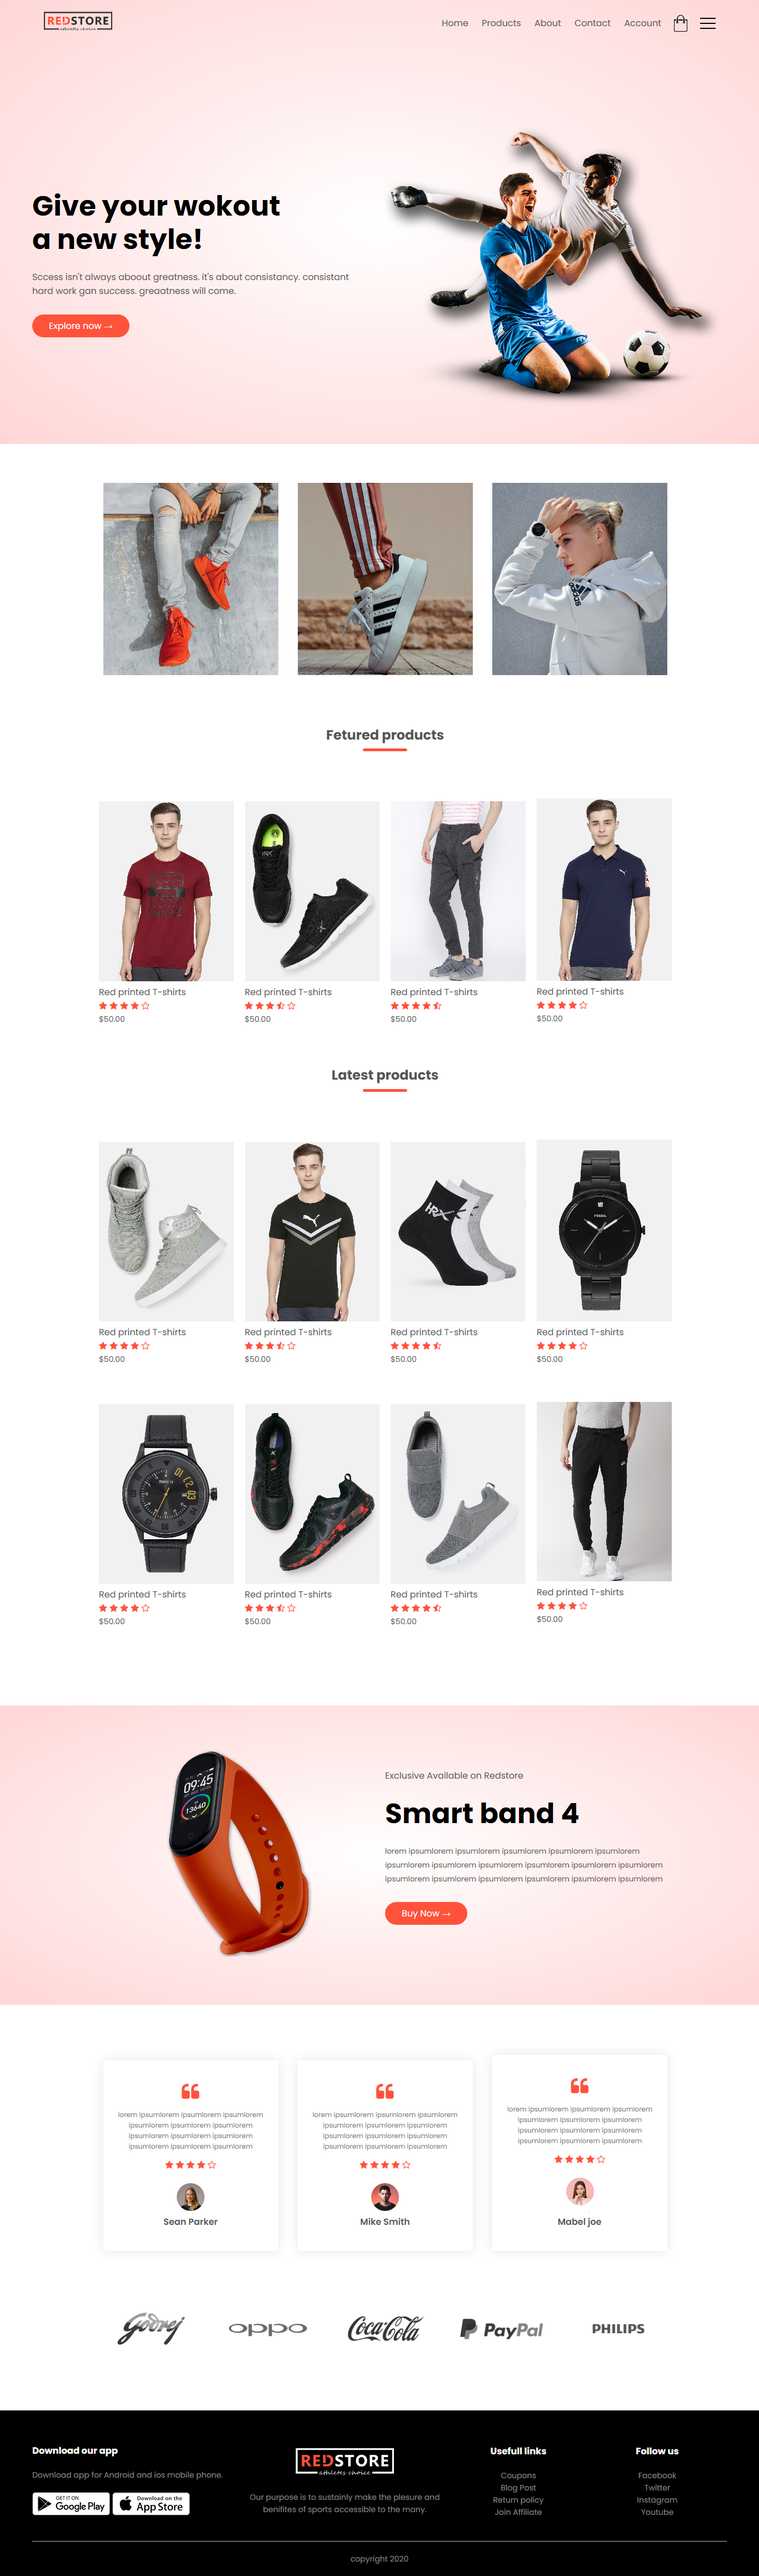
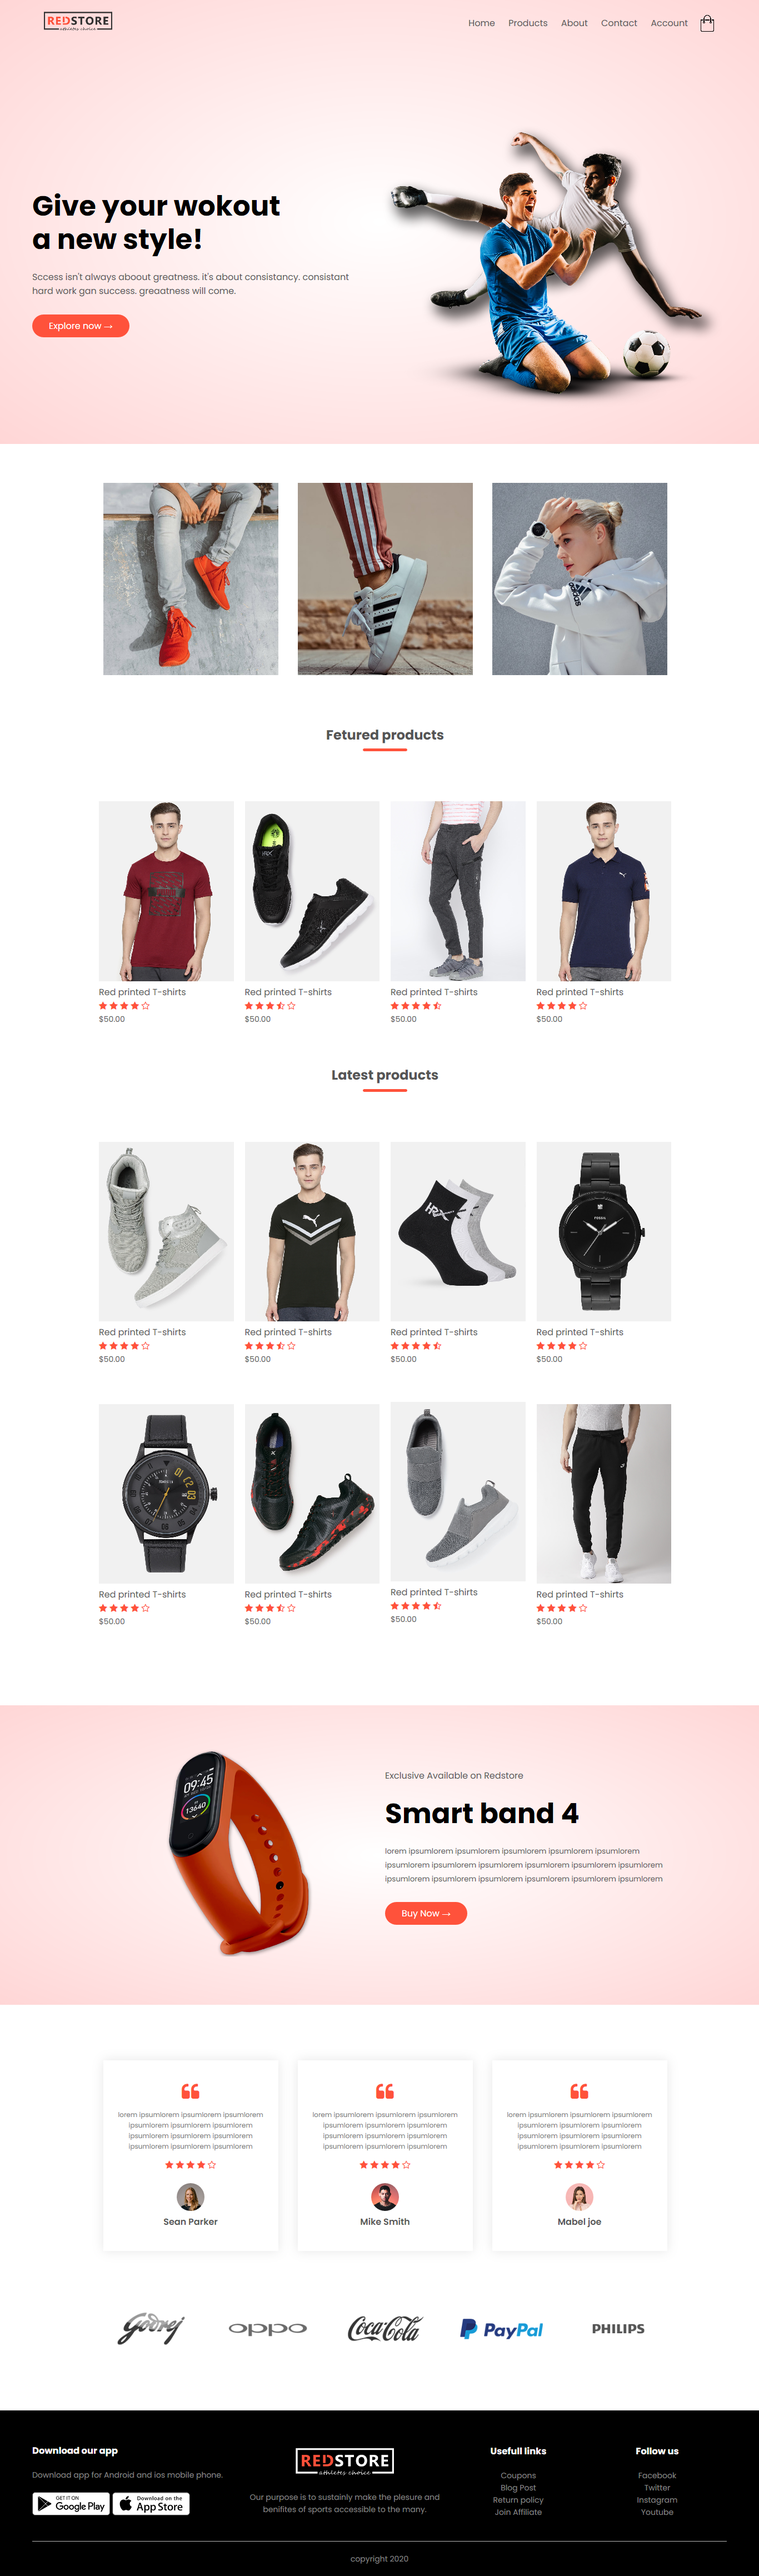
Add files via upload

diff --git a/day_2/products.html b/day_2/products.html
@@ -3,13 +3,13 @@
 <head>
 	<meta charset="utf-8">
     <meta name="viewport" content="width=device-width, initial-scale=1.0">	
-	<title>Redstore </title>
+	<title>All Produucts - Redstore </title>
 	<link rel="stylesheet" type="text/css" href="style.css">
 	<link href="https://fonts.googleapis.com/css2?family=Poppins:wght@300;400;500;600;700&display=swap" rel="stylesheet">
 	<link rel="stylesheet" type="text/css" href="https://stackpath.bootstrapcdn.com/font-awesome/4.7.0/css/font-awesome.min.css">
 </head>
 <body>
-<div class="header">
+
 <div class="container">
 	<div class="navbar">
 		<div class="logo">
@@ -26,44 +26,24 @@
 			</nav>
 			<img src="images/cart.png" width="30px" height="30px">
 			<img src="images/menu.png" class="menu-icon" onclick="menutoggle()">
-
-		</div>
-		<div class="row">
-			<div class="col-2">
-				<h1>
-					Give your wokout <br> a new style! </h1>
-					<p>Sccess isn't always aboout greatness. it's about consistancy. consistant <br>
-					hard work gan success. greaatness will come. </p>
-					<a href="" class="btn">Explore now &#8594; </a>
-			</div>
-			<div class="col-2">
-				<img src="images/image1.png">
-			</div>	
 		</div>
 	</div>
-</div>
-<!-----Feature categoreies ------->
-<div class="categories">
-	<div class="small-container">
-		<div class="row">
-		<div class="col-3">
-			<img src="images/category-1.jpg">
-		</div>	
-		<div class="col-3">
-			<img src="images/category-2.jpg">
-		</div>	
-		<div class="col-3">
-			<img src="images/category-3.jpg">
-		</div>	
 
-	</div>
-		
-	</div>
-</div>
-<!-----Feature Product ------->
+
 <div class="small-container">
-		<h2 class="title">Fetured products</h2>
-		<div class="row">
+	<div class="row row-2">
+		<h2>All Products</h2>
+		<select>
+			<option>Default Shorting</option>
+			<option>Short by price</option>
+			<option>Short by popularity</option>
+			<option>Short by rating</option>
+			<option>Short by sale</option>
+		</select>	
+	</div>
+
+
+	<div class="row">
 		<div class="col-4">
 			<img src="images/Product-1.jpg">
 			<h4>Red printed T-shirts</h4>
@@ -112,8 +92,8 @@
 			</div>
 			<p>$50.00</p>
 		</div>
-	</div>
-	<h2 class="title">Latest products </h2>
+	 </div>
+	
 		<div class="row">
 		<div class="col-4">
 			<img src="images/Product-5.jpg">
@@ -213,102 +193,24 @@
 			<p>$50.00</p>
 		</div>
 	</div>
+	</div>
 
+	<div class="page-btn">
+		<span>1</span>
+		<span>2</span>
+		<span>3</span>
+		<span>4</span>
+		<span>&#8594;</span>
 	</div>
 </div>
-<!----------offer------------>
-<div class="offer">
-	<div class="small-container">
-		<div class="row">
-			<div class="col-2">
-			    <img src="images/exclusive.png" class="offer-img">	
-			</div>
-			<div class="col-2">
-				<p>Exclusive Available on Redstore</p>
-				<h1>Smart band 4</h1>
-				<small>
-					lorem ipsumlorem ipsumlorem ipsumlorem ipsumlorem ipsumlorem ipsumlorem ipsumlorem ipsumlorem ipsumlorem ipsumlorem ipsumlorem ipsumlorem ipsumlorem ipsumlorem ipsumlorem ipsumlorem ipsumlorem </small>
-				<a href="" class="btn">Buy Now &#8594; </a>
-			</div>
-		</div>
-	</div>
- </div>
-<!------testimonial---->
-<div class="testimonial">
-	<div class="small-container">
-		<div class="row">
-			<div class="col-3">
-				<i class="fa fa-quote-left"> </i>	
-				<p>lorem ipsumlorem ipsumlorem ipsumlorem ipsumlorem ipsumlorem ipsumlorem ipsumlorem ipsumlorem ipsumlorem ipsumlorem ipsumlorem ipsumlorem </p>
-				<div class="rating">
-					<i class="fa fa-star"> </i>
-					<i class="fa fa-star"> </i>
-					<i class="fa fa-star"> </i>
-					<i class="fa fa-star"> </i>
-					<i class="fa fa-star-o" ></i>
-				</div>
-				<img src="images/user-1.png" >
-				<h3>Sean Parker</h3>
-			</div>
-			<div class="col-3">
-				<i class="fa fa-quote-left"> </i>	
-				<p>lorem ipsumlorem ipsumlorem ipsumlorem ipsumlorem ipsumlorem ipsumlorem ipsumlorem ipsumlorem ipsumlorem ipsumlorem ipsumlorem ipsumlorem </p>
-				<div class="rating">
-					<i class="fa fa-star"> </i>
-					<i class="fa fa-star"> </i>
-					<i class="fa fa-star"> </i>
-					<i class="fa fa-star"> </i>
-					<i class="fa fa-star-o" ></i>
-				</div>
-				<img src="images/user-2.png" >
-				<h3>Mike Smith</h3>
-			</div>
-			<div class="col-3">
-				<i class="fa fa-quote-left"> </i>	
-				<p>lorem ipsumlorem ipsumlorem ipsumlorem ipsumlorem ipsumlorem ipsumlorem ipsumlorem ipsumlorem ipsumlorem ipsumlorem ipsumlorem ipsumlorem </p>
-				<div class="rating">
-					<i class="fa fa-star"> </i>
-					<i class="fa fa-star"> </i>
-					<i class="fa fa-star"> </i>
-					<i class="fa fa-star"> </i>
-					<i class="fa fa-star-o" ></i>
-				</div>
-				<img src="images/user-3.png" >
-				<h3>Mabel joe</h3>
-			</div>
-		</div>		
-	</div>	
-</div>
-<!---------brands----->
-<div class="brands">
-	<div class="small-container">
-		<div class="row">
-			<div class="col-5">
-				<img src="images/logo-godrej.png">
-			</div>
-			<div class="col-5">
-				<img src="images/logo-oppo.png">
-			</div>
-			<div class="col-5">
-				<img src="images/logo-coca-cola.png">
-			</div>
-			<div class="col-5">
-				<img src="images/logo-paypal.png">
-			</div>
-			<div class="col-5">
-				<img src="images/logo-philips.png">
-			</div>
-		</div>
-		
-	</div>
-</div>
+
 
 <!---------footer---->
 <div class="footer">
 	<div class="container">
 		<div class="row">
 			<div class="footer-col-1">
-				<h3>Download our app</h3>
+				<h3>Download our App</h3>
 				<p>Download app for Android and ios mobile phone.</p>
 				<div class="app-logo">
 					<img src="images/play-store.png">

diff --git a/day_2/style.css b/day_2/style.css
@@ -282,6 +282,41 @@ ul{list-style-type: none;}
 		cursor: pointer;
 	}
 }
+/*---------- all products page ---------*/
+
+.row-2{
+
+	justify-content: space-between;
+	margin: 100px auto 50px;
+}
+select{
+	border: 1px solid #ff523b;
+	padding: 5px;
+}
+select:focus{
+	outline: none;
+}
+.page-btn{
+	margin: 0 auto 80px;
+}
+.page-btn span{
+	display: inline-block;
+	border: 1px solid #ff523b;
+	margin-left: 10px;
+	width :40px;
+	height: 40px;
+	text-align: center;
+	line-height: 40px;
+	cursor: pointer;
+}
+.page-btn span:hover{
+	background: #ff523b;
+	color: white;
+}
+
+
+
+
 
 
 @media only screen and (max-width: 600px){
